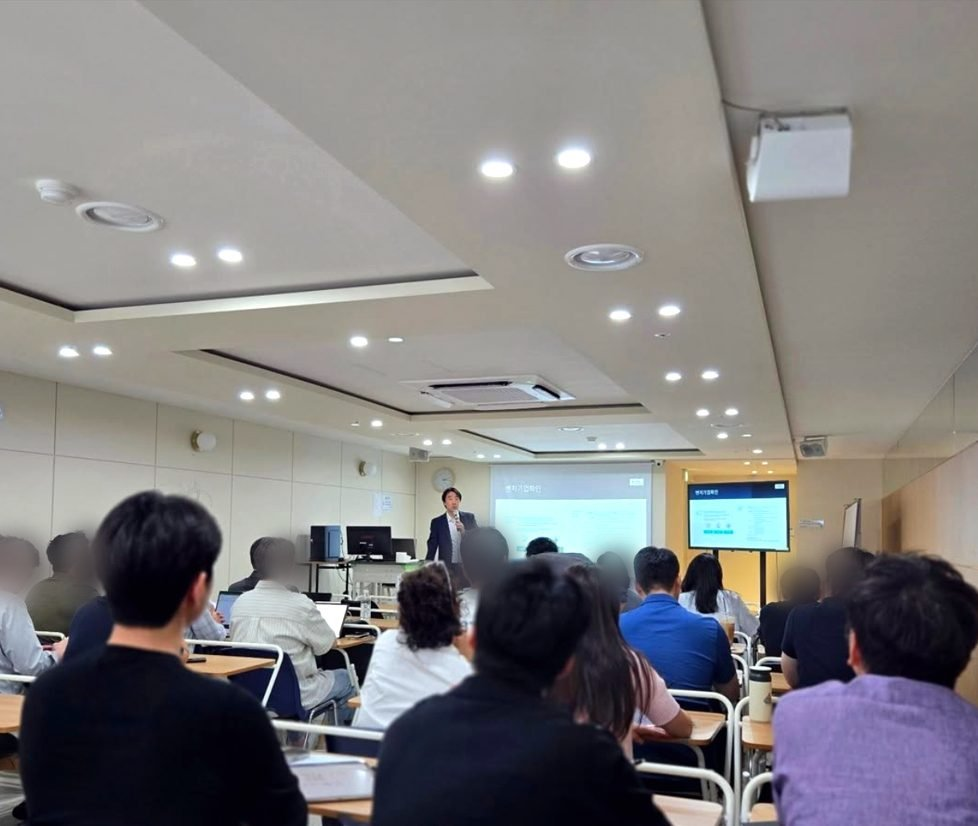
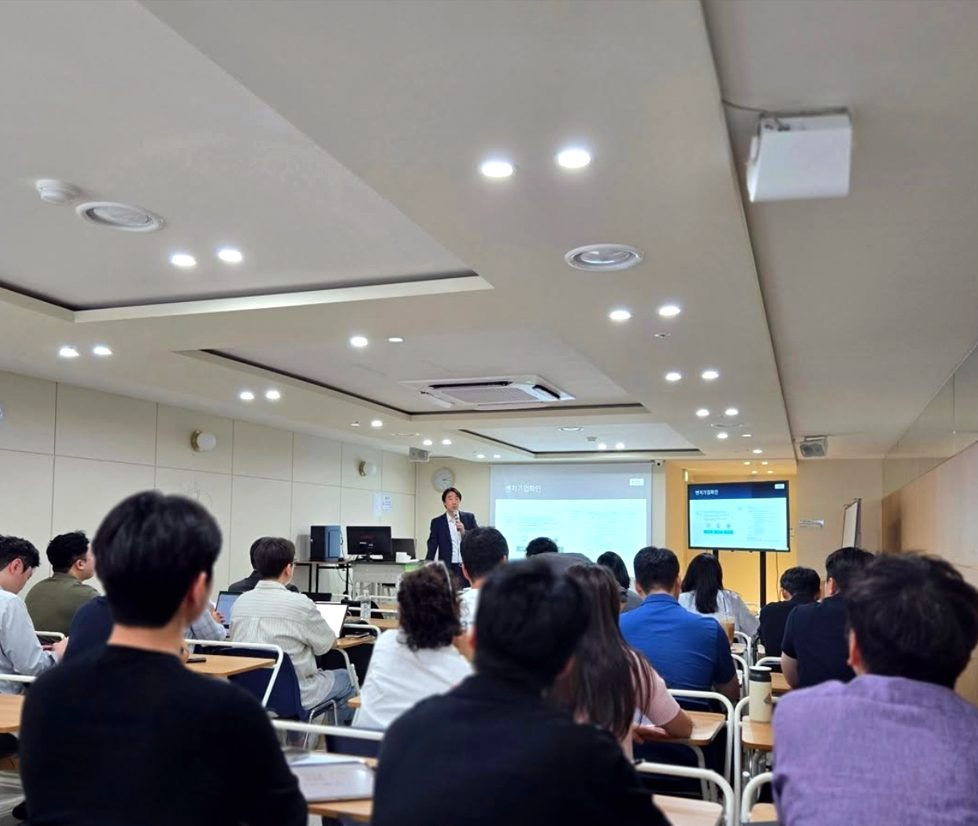
세미나 사진 참석자 얼굴 블러를 원상 복구
- 사용자 요청으로 seminar-6·7·8 사진 18개 파일(원본·800·480, jpg·webp)을
  블러 적용 전(#115 시점) 원본으로 되돌림 — 바이트 단위로 원본과 일치 확인
- CLAUDE.md 사진 규칙: 메인 페이지 세미나 사진은 사용자 결정으로 블러 없이 원본 사용,
  다시 블러를 넣지 않도록 예외로 기록 (새 사진 교체 시에만 블러 여부 확인)
- 로컬 검증: 1280px·390px 렌더링, 리소스 404·JS 오류 없음

Claude-Session: https://claude.ai/code/session_0174b2nQP2s2rs5M1Y1bKKbe

diff --git a/CLAUDE.md b/CLAUDE.md
@@ -65,7 +65,7 @@
 - 인물 사진은 **얼굴이 나오지 않는 컷**을 우선한다 (손·서류·공간·야경). 서구권 모델 이슈와 스톡 티를 동시에 피할 수 있다.
 - **강의·행사 사진은 강사와 참석자 얼굴을 반드시 블러 처리**한다 (타원 마스크 + 가장자리 페더로 자연스럽게).
 - 현재 사용 중: `photo-quote.jpg`(서울 야경·인용구 배경) / `photo-services.jpg`(손·서류) / `photo-process.jpg`(서명) / `photo-lecture.jpg`(강의 현장, 얼굴 블러 처리본)
-- 메인 리쿠르팅 페이지 세미나 사진(`assets/photos/seminar-6·7·8`)은 **참석자 얼굴만** 블러 처리했다 (강사는 사용자 요청으로 유지, 2026-09-28). 사진을 교체하면 원본 해상도에 블러를 넣은 뒤 `-800`·`-480` jpg/webp 파생본도 다시 만든다.
+- **예외:** 메인 리쿠르팅 페이지 세미나 사진(`assets/photos/seminar-*`)은 사용자 결정으로 **블러 없이 원본을 쓴다** (2026-09-28 참석자 블러 적용 → 2026-09-29 사용자 요청으로 원본 복구). 다시 블러를 넣지 않는다. 사진을 새로 교체할 때만 사용자에게 블러 여부를 확인하고, 처리하면 원본 해상도에 적용한 뒤 `-800`·`-480` jpg/webp 파생본도 다시 만든다.
 - **사진 밴드는 서로 붙이지 않는다.** 다크 섹션(`#about`) 바로 뒤에 배너를 두면 사진이 겹쳐 보인다. 사이에 본문 섹션을 두고 최소 1,000px 이상 간격을 확보한다.
 
 ## 수치 표기 규칙
